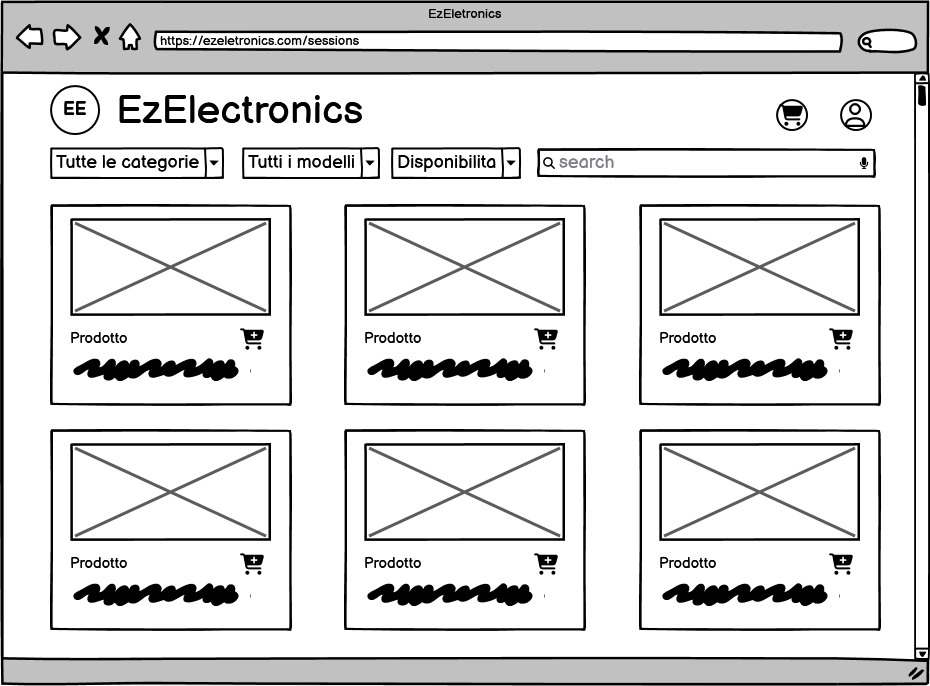
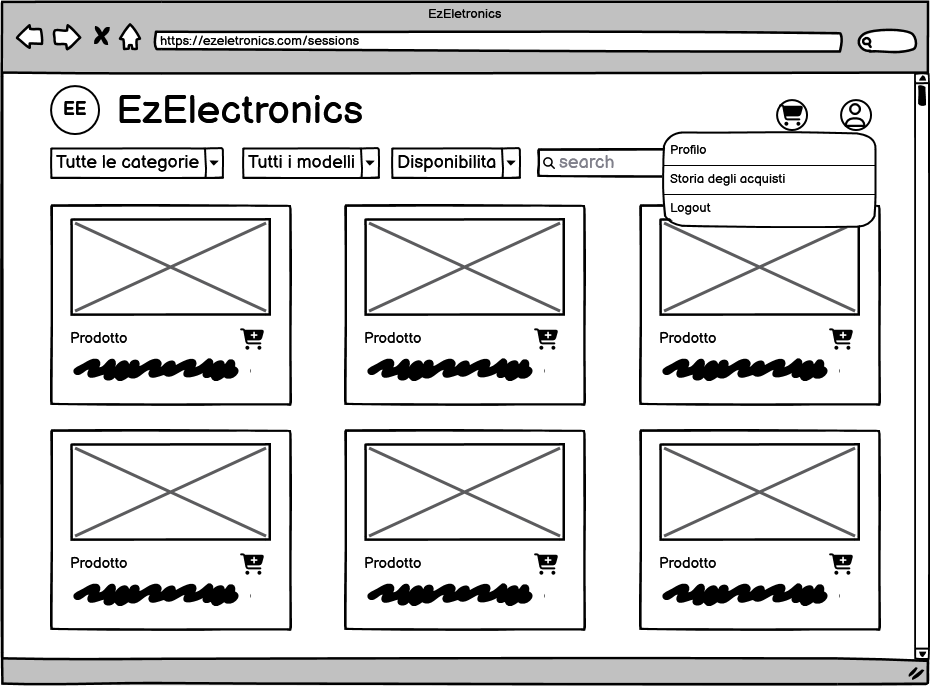
Modifiche e rifiniture GUI V1

Changed region(s): [[0.686, 0.1837, 0.9667, 0.3367]]

diff --git a/GUIPrototypeV1.md b/GUIPrototypeV1.md
@@ -4,7 +4,7 @@ Authors: Alessandra Cicciarelli, Filippo Forte, Giulio Arecco, Riccardo Daniele 
 
 Date: 21/04/2024
 
-Version: 1.0
+Version: 1.3
 
 ## Pagina Principale
 
@@ -30,13 +30,17 @@ Version: 1.0
 
 ![PaginaCustomerPC](/img/PaginaCustomerPC.png)
 
-### Carrello
+### Carrello (da utente customer)
+
+Si accede alla pagina premendo sull'icona del carrello sulla navbar
 
 ![Carrello](/img/Carrello.png)
 
 ![CarrelloPC](/img/CarrelloPC.png)
 
-### Storia degli acquisti
+### Storia degli acquisti (da utente customer)
+
+Si accede alla pagina tramite la voce nel menu a tendina nella navbar
 
 ![History](/img/History.png)
 
@@ -48,19 +52,23 @@ Version: 1.0
 
 ![PaginaManagerPC](/img/PaginaManagerPC.png)
 
-### Inserisci un nuovo prodotto
+### Inserisci un nuovo prodotto (da utente manager)
+
+Si accede alla pagina tramite il bottone "Aggiungi prodotto" sulla navbar per la versione da PC mentre attraverso il bottone di aggiunta in basso a destra da cellulare
 
 ![InserisciProdotto](/img/InserisciProdotto.png)
 
 ![InserisciProdottoPC](/img/InserisciProdottoPC.png)
 
-### Logout
+### Logout 
 
 ![Logout](/img/Logout.png)
 
 ![LogoutPC](/img/LogoutPC.png)
 
-### Visualizza prodotti inseriti
+### Visualizza prodotti inseriti (da utente manager)
+
+Si accede alla pagina tramite la voce nel menu a tendina nella navbar
 
 ![IMieiProdotti](/img/IMieiProdotti.png)
 
